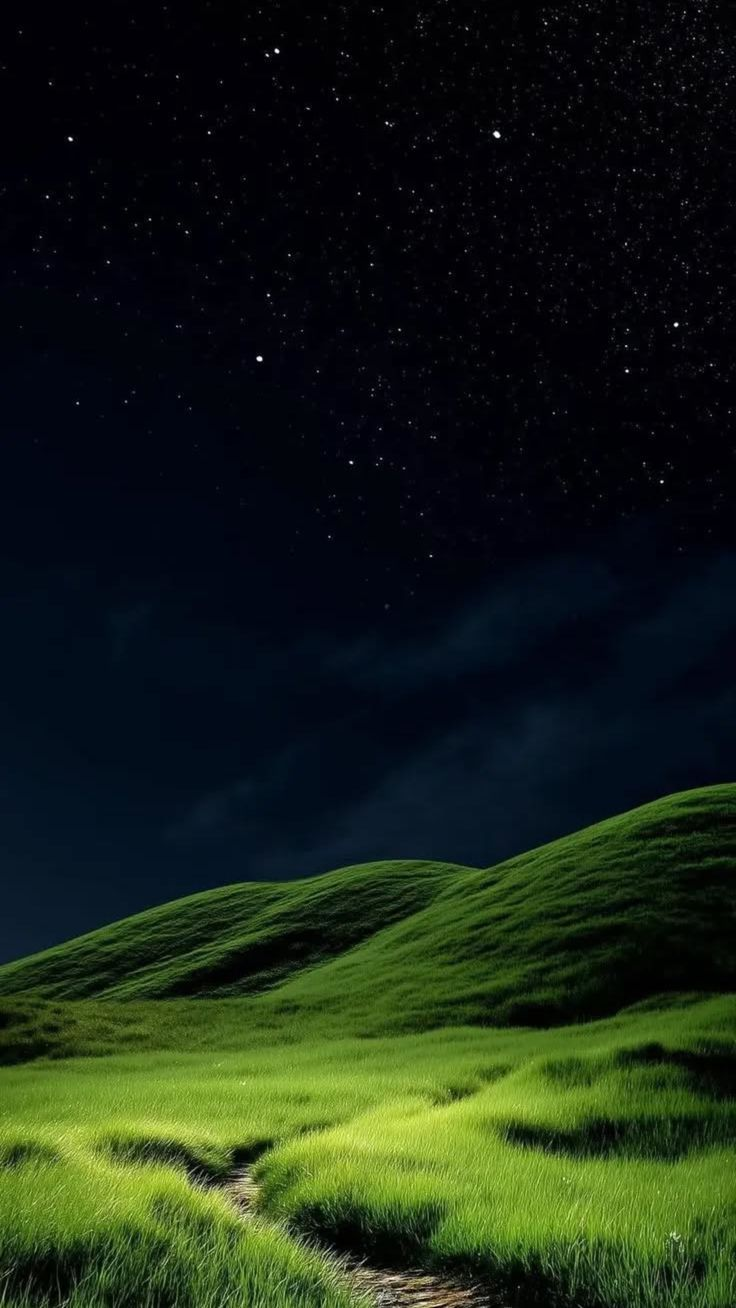
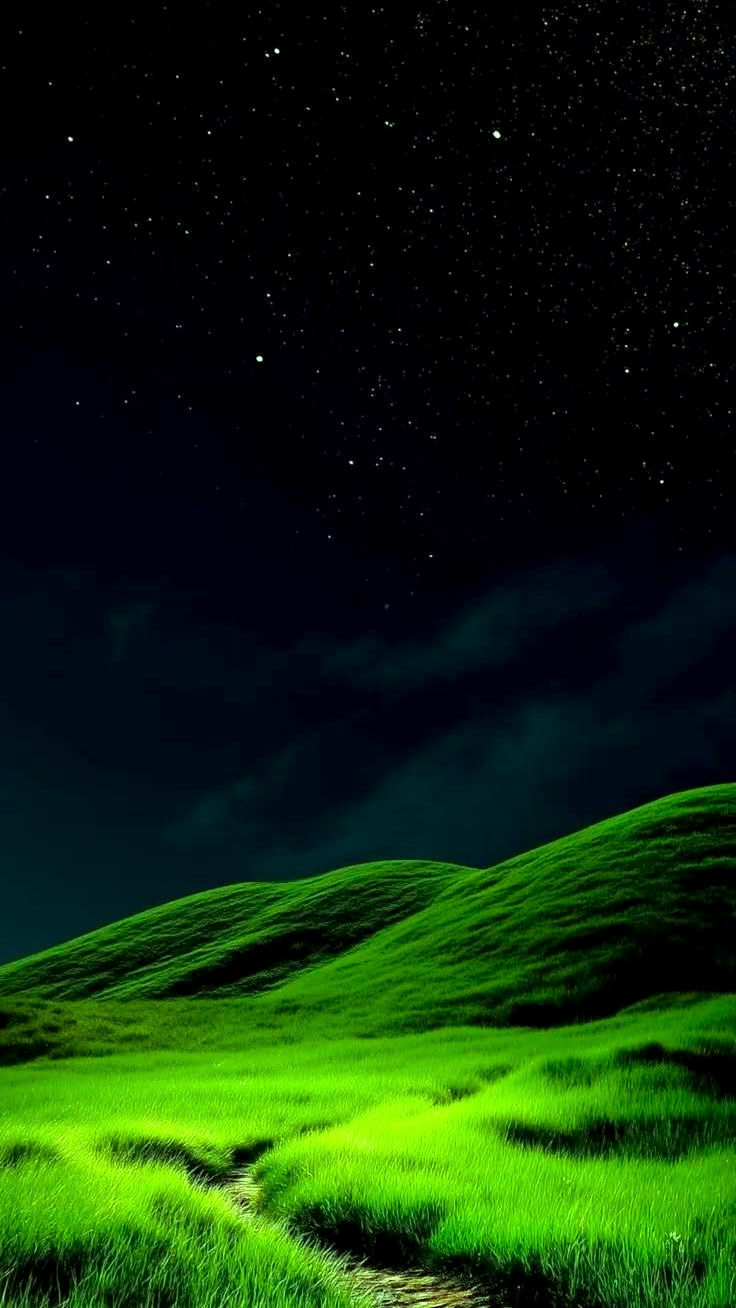
hero vide opacity+

Changed region(s): [[0.0, 0.581, 1.0, 1.0], [0.0, 0.7339, 0.0312, 0.7645]]

diff --git a/style.css b/style.css
@@ -260,7 +260,7 @@ body.scrolled .glass-nav {
     position: absolute;
     inset: 0;
     /* Stronger gradient at bottom to make text readable */
-    background: linear-gradient(to bottom, rgba(0, 0, 0, 0.2) 0%, rgba(0, 0, 0, 0.6) 70%, var(--black) 100%);
+    /* background: linear-gradient(to bottom, rgba(0, 0, 0, 0.2) 0%, rgba(0, 0, 0, 0.6) 0%, var(--black) 100%); */
 }
 
 .hero-content-lower {
